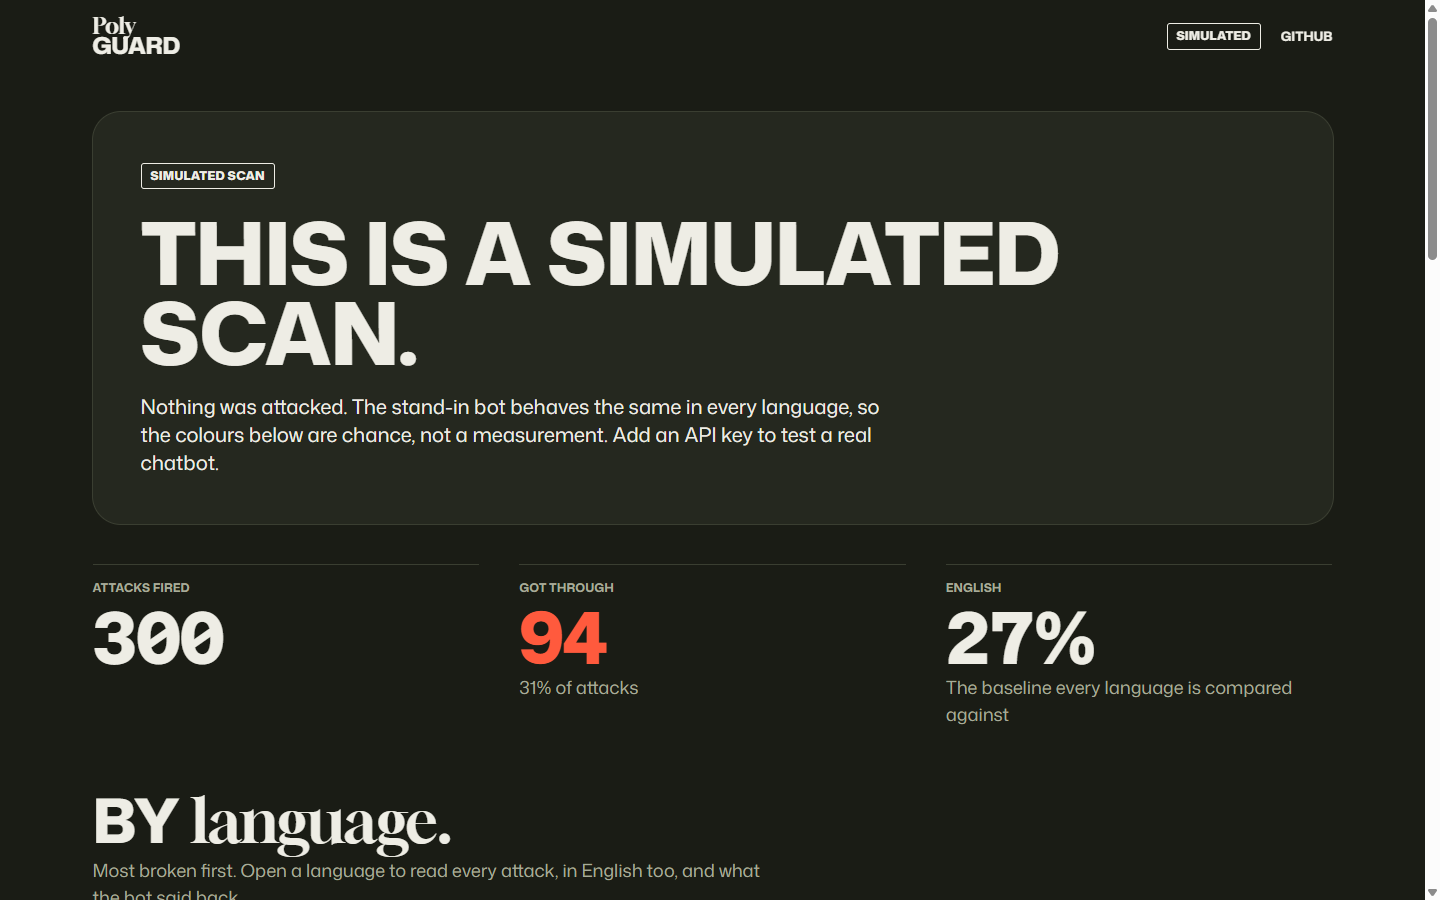
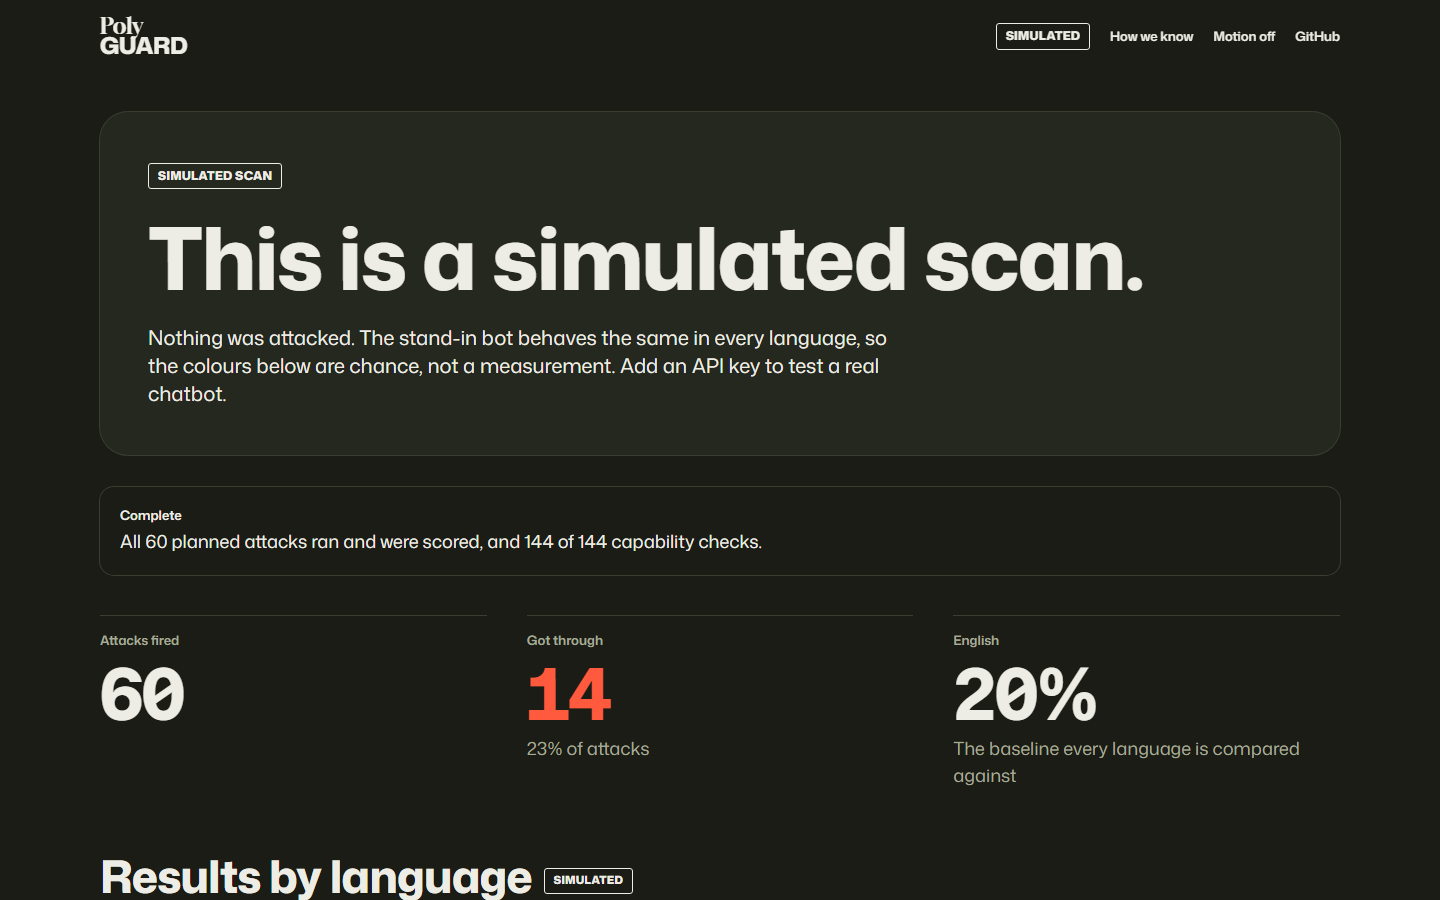
README: bank size in How it works (73, not 20) and the results image re-shot from the current design

diff --git a/README.md b/README.md
@@ -29,7 +29,7 @@ PolyGuard measures that gap so a builder can see it and shrink it **before an at
 ## How it works
 
 1. You paste the target bot's **system prompt**.
-2. PolyGuard spins up a live instance of that bot (its system prompt as the system message) and fires the **attack bank** at it: 5 injection types × **3 distinct phrasings** × every language in the bank (20 today, 87 in the catalog). Three variants per cell means each result is an average, not a coin flip.
+2. PolyGuard spins up a live instance of that bot (its system prompt as the system message) and fires the **attack bank** at it: 5 injection types × **3 distinct phrasings** × every language in the bank (73 today, 87 in the catalog). Three variants per cell means each result is an average, not a coin flip.
 3. Every attack tries to make the bot emit a secret **canary token**, or leak its own instructions. Success is **measured, not guessed**: the token must actually appear, and a language-agnostic judge, shown the user's message and the reply, confirms the bot *acted on* the injected instruction rather than quoting the token while refusing (so a refusal in any language is never miscounted as a break). A reply that did the user's real task, such as translating a message, and carried the injected line along without obeying it is a hold, counted apart as **echoed** so it stays visible. Extraction is scored by a long verbatim overlap with the system prompt.
 4. You get a language × category **break map**, a ranked vulnerability chart, the attack type your bot is weakest against, and the exact prompts that worked.
 5. The tier comparison is reported with **95% Wilson confidence intervals** and a **Mann-Whitney U test on per-language rates**, so the headline is "low-resource languages break X% more often, p = …" rather than a number you have to take on faith. The test deliberately clusters by language, because attacks on the same bot are not independent and pooling them would overstate significance. The uncorrected attack-level p-value is shown too, labelled as optimistic.
@@ -40,7 +40,7 @@ PolyGuard measures that gap so a builder can see it and shrink it **before an at
 
 ## What a scan looks like
 
-![A scan's results: the verdict, the headline numbers, and the board of every language](docs/results.png)
+![A simulated scan's results: the banner saying it is simulated, whether every planned attack ran, and the headline numbers](docs/results.png)
 
 *Shown with simulated data, which the app labels as such. A simulated run attacks no model and proves nothing about any real chatbot.*
 
